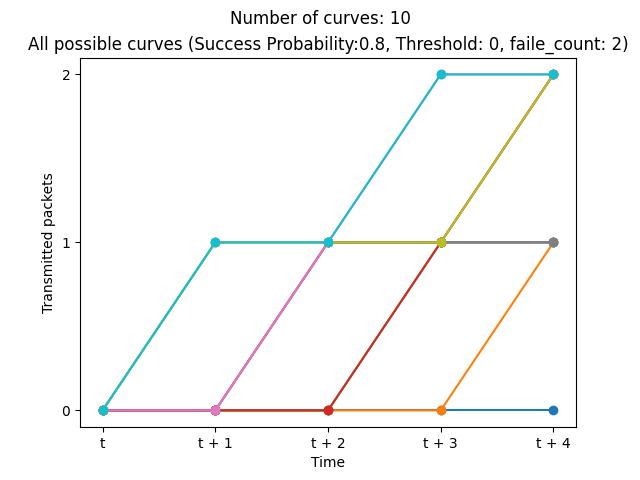
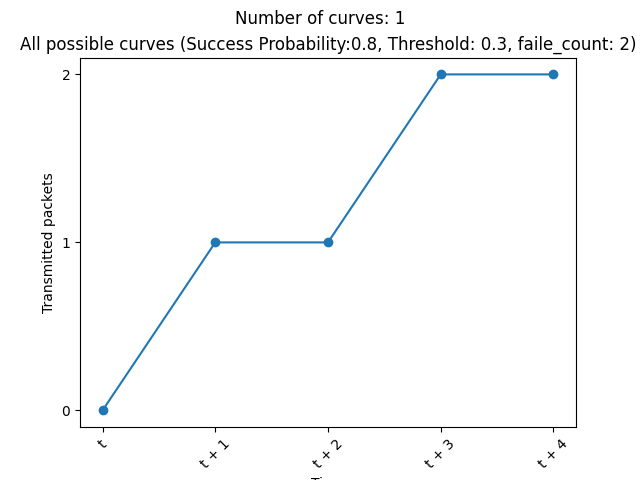
Almost correct arrival curve

diff --git a/Launcher.py b/Launcher.py
@@ -177,7 +177,7 @@ def while_with_conditional_split(S=100, R=100, t_plus=200):
     flow_counter = 0
     const_prob = 0.8
     threshold = 0.2
-    arrival_curve = list()
+    release_curve = list()
     service_curve = list()
     # Initial release 
     # for i in range(5):
@@ -195,9 +195,6 @@ def while_with_conditional_split(S=100, R=100, t_plus=200):
         # Split the states based on condition
         hash_table = simu.c_split(R_condition_name, tick_clock_flag=False, hash_table=hash_table)
 
-        # # Gathering arrival curve and service curve data
-        # arrival_curve.append(simu.most_release_count(hash_table))
-        
         for state in list(hash_table.values()):
             if R_condition_name+"==0" in state.conditions:
                 hash_table = simu.single_release(flow_name=flow_name, hash_table=hash_table, state=state, tick_clock_flag=False, tick_num=0)
@@ -208,7 +205,16 @@ def while_with_conditional_split(S=100, R=100, t_plus=200):
                     # hash_table = simu.add_sleep(tick_clock_flag=True, hash_table=hash_table, tick_num=1)
         flow_counter += 1
         
-        arrival_curve.append(simu.most_release_count(hash_table))
+        # Gathering arrival curve and service curve data
+        release_curve.append(simu.most_release_count(hash_table))
+        
+        clock += 1
+        
+        # release_curve.append(simu.most_release_count(hash_table))
+        ### End loop condition
+        if clock == t_plus:
+            end_loop(simulation_name, simu, hash_table, release_curve)
+            return hash_table
         
         
         ##### if clock % S == 0: Push section
@@ -227,48 +233,6 @@ def while_with_conditional_split(S=100, R=100, t_plus=200):
             
         
         # service_curve.append(simu.least_push_count(hash_table, const_prob, 0.23))
-        
-        clock += 1
-        
-        # arrival_curve.append(simu.most_release_count(hash_table))
-        ### End loop condition
-        if clock == t_plus:        
-            arrival_curve.append(simu.most_release_count(hash_table))
-            # print(arrival_curve)
-            
-            # simu.test_of_correctness(hash_table=hash_table, std_out=True)
-            
-            # simu.imprint_hash_table(simulation_name, hash_table, const_prob=0.9)
-            # simu.test_of_correctenss2(hash_table, std_out=False)
-            # simu.findPaths(hash_table)
-            
-            print(arrival_curve)
-            # x                    , y                    , z
-            # largest_release_clock, largest_release_count, largest_release_model
-            arrival_curve_2d_data = [(x, y) for x, y, z in arrival_curve]
-            simu.plot_arrival_curve_2D(arrival_curve_2d_data, simulation_name)
-            
-            arrival_curve_3d_data = [(z, str(x), y) for x, y, z in arrival_curve]
-            print("arrival_curve_3d_data: ", arrival_curve_3d_data)
-            simu.plot_arrival_curve_3D(arrival_curve_3d_data)
-            
-            # simu.find_arrival_curve(hash_table)
-            # simu.paths_to_curves(hash_table)
-            simu.plot_all_curves(hash_table, simulation_name, threshold=0)
-            # simu.plot_all_curves(hash_table, simulation_name, threshold=0.2)
-            
-            # simu.visualize_dag(simulation_name, const_prob=const_prob)
-            
-            
-            # --- Verify every single curve by visualizing them all (TIME CONSUMING)
-            # ids_of_paths = simu.path_to_id(hash_table)
-            # path_counter = 0
-            # for path in ids_of_paths:
-            #     simu.visualize_dag(simulation_name+f'Path#{path_counter}', const_prob=const_prob, path_trace=path)
-            #     path_counter += 1
-                
-                
-            return hash_table
         
 
 
@@ -325,6 +289,56 @@ def run_loop(instruction_file_path):
     return
 
 
+def end_loop(simulation_name, simu, hash_table, release_curve):
+    # print(release_curve)
+    
+    # simu.test_of_correctness(hash_table=hash_table, std_out=True)
+    # simu.imprint_hash_table(simulation_name, hash_table, const_prob=0.9)
+    # simu.test_of_correctenss2(hash_table, std_out=False)
+    # simu.findPaths(hash_table)
+    
+    print("release_curve: ", release_curve)
+    # x                    , y                    , z
+    # largest_release_clock, largest_release_count, largest_release_model
+    #   ^
+    #   |
+    #   |
+    #   |_________>
+    release_curve_2d_data = [(x, y) for x, y, z in release_curve]
+    simu.plot_release_curve_2D(release_curve_2d_data, simulation_name)
+    
+    
+    #     ___
+    #    /__/|
+    #    |__|/
+    # release_curve_3d_data = [(z, str(x), y) for x, y, z in release_curve]
+    # print("release_curve_3d_data: ", release_curve_3d_data)
+    # simu.plot_release_curve_3D(release_curve_3d_data)
+    
+    # simu.find_release_curve(hash_table)
+    # simu.paths_to_curves(hash_table)
+    # simu.plot_all_curves(hash_table, simulation_name, threshold=0)
+    # simu.plot_all_curves(hash_table, simulation_name, threshold=0.3)
+    
+    
+    release_curve_1d_data = release_curve_2d_data = [y for x, y, z in release_curve]
+    print("release curve 1d data: ", release_curve_1d_data)
+    ac = simu.get_arrival_curve(release_curve_1d_data)
+    print(ac)
+    simu.plot_arrival_curve(ac, simulation_name)
+    
+    
+    # simu.visualize_dag(simulation_name, const_prob=const_prob)
+    
+    
+    # --- Verify every single curve by visualizing them all (TIME CONSUMING)
+    # ids_of_paths = simu.path_to_id(hash_table)
+    # path_counter = 0
+    # for path in ids_of_paths:
+    #     simu.visualize_dag(simulation_name+f'Path#{path_counter}', const_prob=const_prob, path_trace=path)
+    #     path_counter += 1
+            
+
 def main():
     # ========== Costum simulations ===========
     
@@ -342,7 +356,7 @@ def main():
     # while_with_controled_frequency_new(S=50, R=100, t=0, t_plus=150)
     
     # === Step five ===
-    while_with_conditional_split(S=2, R=3, t_plus=18)
+    while_with_conditional_split(S=1, R=2, t_plus=8)
     
     # === Kowsar's ==
     # kowsars_work()

diff --git a/Simulator.py b/Simulator.py
@@ -1188,12 +1188,12 @@ class Simulator:
         info_text = f"Number of curves: {len(all_curves)}"
         plt.text(0.5, 0.95, info_text, transform=plt.gcf().transFigure, fontsize=12, ha='center')
         # plt.legend()
-        plt.savefig("./Output/Plots/"+plot_name+'_all_curve')
+        plt.savefig("./Output/Plots/"+plot_name+'_all_push_counts')
         # plt.clf()
         # plt.show()
 
 
-    def plot_arrival_curve_2D(self, curve, plot_name, t_subs=''):
+    def plot_release_curve_2D(self, curve, plot_name, t_subs=''):
         # plot the arrival curve
         t = symbols('t')
         
@@ -1206,7 +1206,7 @@ class Simulator:
             x_values = [value.subs(t, t_subs) for value in x_values]
         
         # Plot it
-        plt.plot(x_values, y_values, marker='s', label=f'Arrival Curve', markerfacecolor='k')
+        plt.plot(x_values, y_values, marker='s', label=f'Cumulative arrival process', markerfacecolor='k')
         
         #specify axis tick step sizes
         # plt.xticks(np.arange(min(x_values), max(x_values)+1, 1))
@@ -1218,13 +1218,13 @@ class Simulator:
         plt.legend()
         plt.xlabel("Time")
         plt.ylabel('Released packets')
-        plt.savefig("./Output/Plots/"+plot_name+'_arrival_curve')
-        
+        plt.savefig("./Output/Plots/"+plot_name+'_release_count')
+        # plt.show()
         # Clear plot for later use
-        # plt.clf()
+        plt.clf()
         
         
-    def plot_arrival_curve_3D(self, data):
+    def plot_release_curve_3D(self, data):
         fig = plt.figure()
         ax = fig.add_subplot(111, projection='3d')
 
@@ -1250,3 +1250,42 @@ class Simulator:
 
         plt.show()
             
+            
+    def get_arrival_curve(self, data):
+        arrival_curve = list()
+        
+        # for each time duration (td: time duration)
+        for td in range(1, len(data)):
+            delta = list()
+            print('     Time Duration: ',td)
+            # we calculate maximum delta for each data[i: i+td+1]
+            for i in range(len(data)-td):
+                segment = data[i: i+td+1]
+                print(f'data[{i}: {i+td+1}]', segment, '     max - min => ', max(segment) - min(segment))
+                delta.append(max(segment) - min(segment))
+                
+            print('         Max is: ', max(delta))
+            arrival_curve.append((td, max(delta)))
+            
+        return arrival_curve
+
+   
+    def plot_arrival_curve(self, service_curve, plot_name):
+        x_values, y_values = zip(*service_curve)
+        
+        # Plot it
+        plt.plot(x_values, y_values, marker='s', label=f'Arrival Curve', markerfacecolor='k')
+        
+        # Customization
+        plt.xticks(np.arange(min(x_values), max(x_values)+1, 1))
+        plt.yticks(np.arange(0, max(y_values)+1, 1))
+        plt.title(plot_name)
+        plt.xlabel("Time Duration") #Δ
+        plt.ylabel('Packet Release')
+        plt.grid()
+        plt.legend()
+        # plt.show()
+        plt.savefig("./Output/Plots/"+plot_name+'_arrival_curve')
+        plt.clf()
+        
+        

diff --git a/temp.py b/temp.py
@@ -1,7 +1,36 @@
-data = [(0, "t", 1), (3, "t + 1", 2), (0, "t + 2", 2), (3, "t + 3", 2), (0, "t + 4", 3), (3, "t + 5", 3), (0, "t + 6", 3)]
+l = [1,2,3,4,5]
 
-# Remove the first element from each tuple in the list
-new_data = [entry[1:] for entry in data]
-
-print("Original data:", data)
-print("Data without the first index:", new_data)
+for i in range(1, len(l)+1):
+    print("i: ", i)
+    print('Duration: ', i+1)
+    for j in range(len(l)-i):
+        print("     j: ",j, ':',j+i+1)
+        print('     l: ', l[j: j+i+1])
+        
+        
+    """
+    i = 1
+        l[0:1]
+        l[1:2]
+        l[2:3]
+        l[3:4]
+        l[4:5]
+    
+    i = 2
+        l[0:2]
+        l[1:3]
+        l[2:4]
+        l[3:5]
+    
+    i = 3
+        l[0:3]
+        l[1:4]
+        l[2:5]
+        
+    i = 4
+        l[0:4]
+        l[1:5]
+        
+    i = 5
+        l[0:5]
+    """

diff --git a/temp2.py b/temp2.py
@@ -1,0 +1,23 @@
+def get_arrival_curve(data):
+    arrival_curve = list()
+    
+    # for each time duration (td: time duration)
+    for td in range(1, len(data)+1):
+        delta = list()
+        
+        # we calculate maximum delta for each data[i: i+td+1]
+        for i in range(len(data)-td+1):
+            segment = data[i: i+td+1]
+            delta.append(max(segment) - min(segment))
+            
+        arrival_curve.append((td, max(delta)))
+    
+    
+    return arrival_curve
+        
+data = [1, 1, 2, 2, 2]
+data = [1, 1, 2, 2, 3, 3, 4, 4, 5, 5, 6, 6, 6]
+data = [1, 1, 2, 2, 3, 3, 4, 4, 5, 5, 6, 6, 7, 7, 8, 8, 8]
+print("len of data: ", len(data))
+ac = get_arrival_curve(data)
+print(ac)
